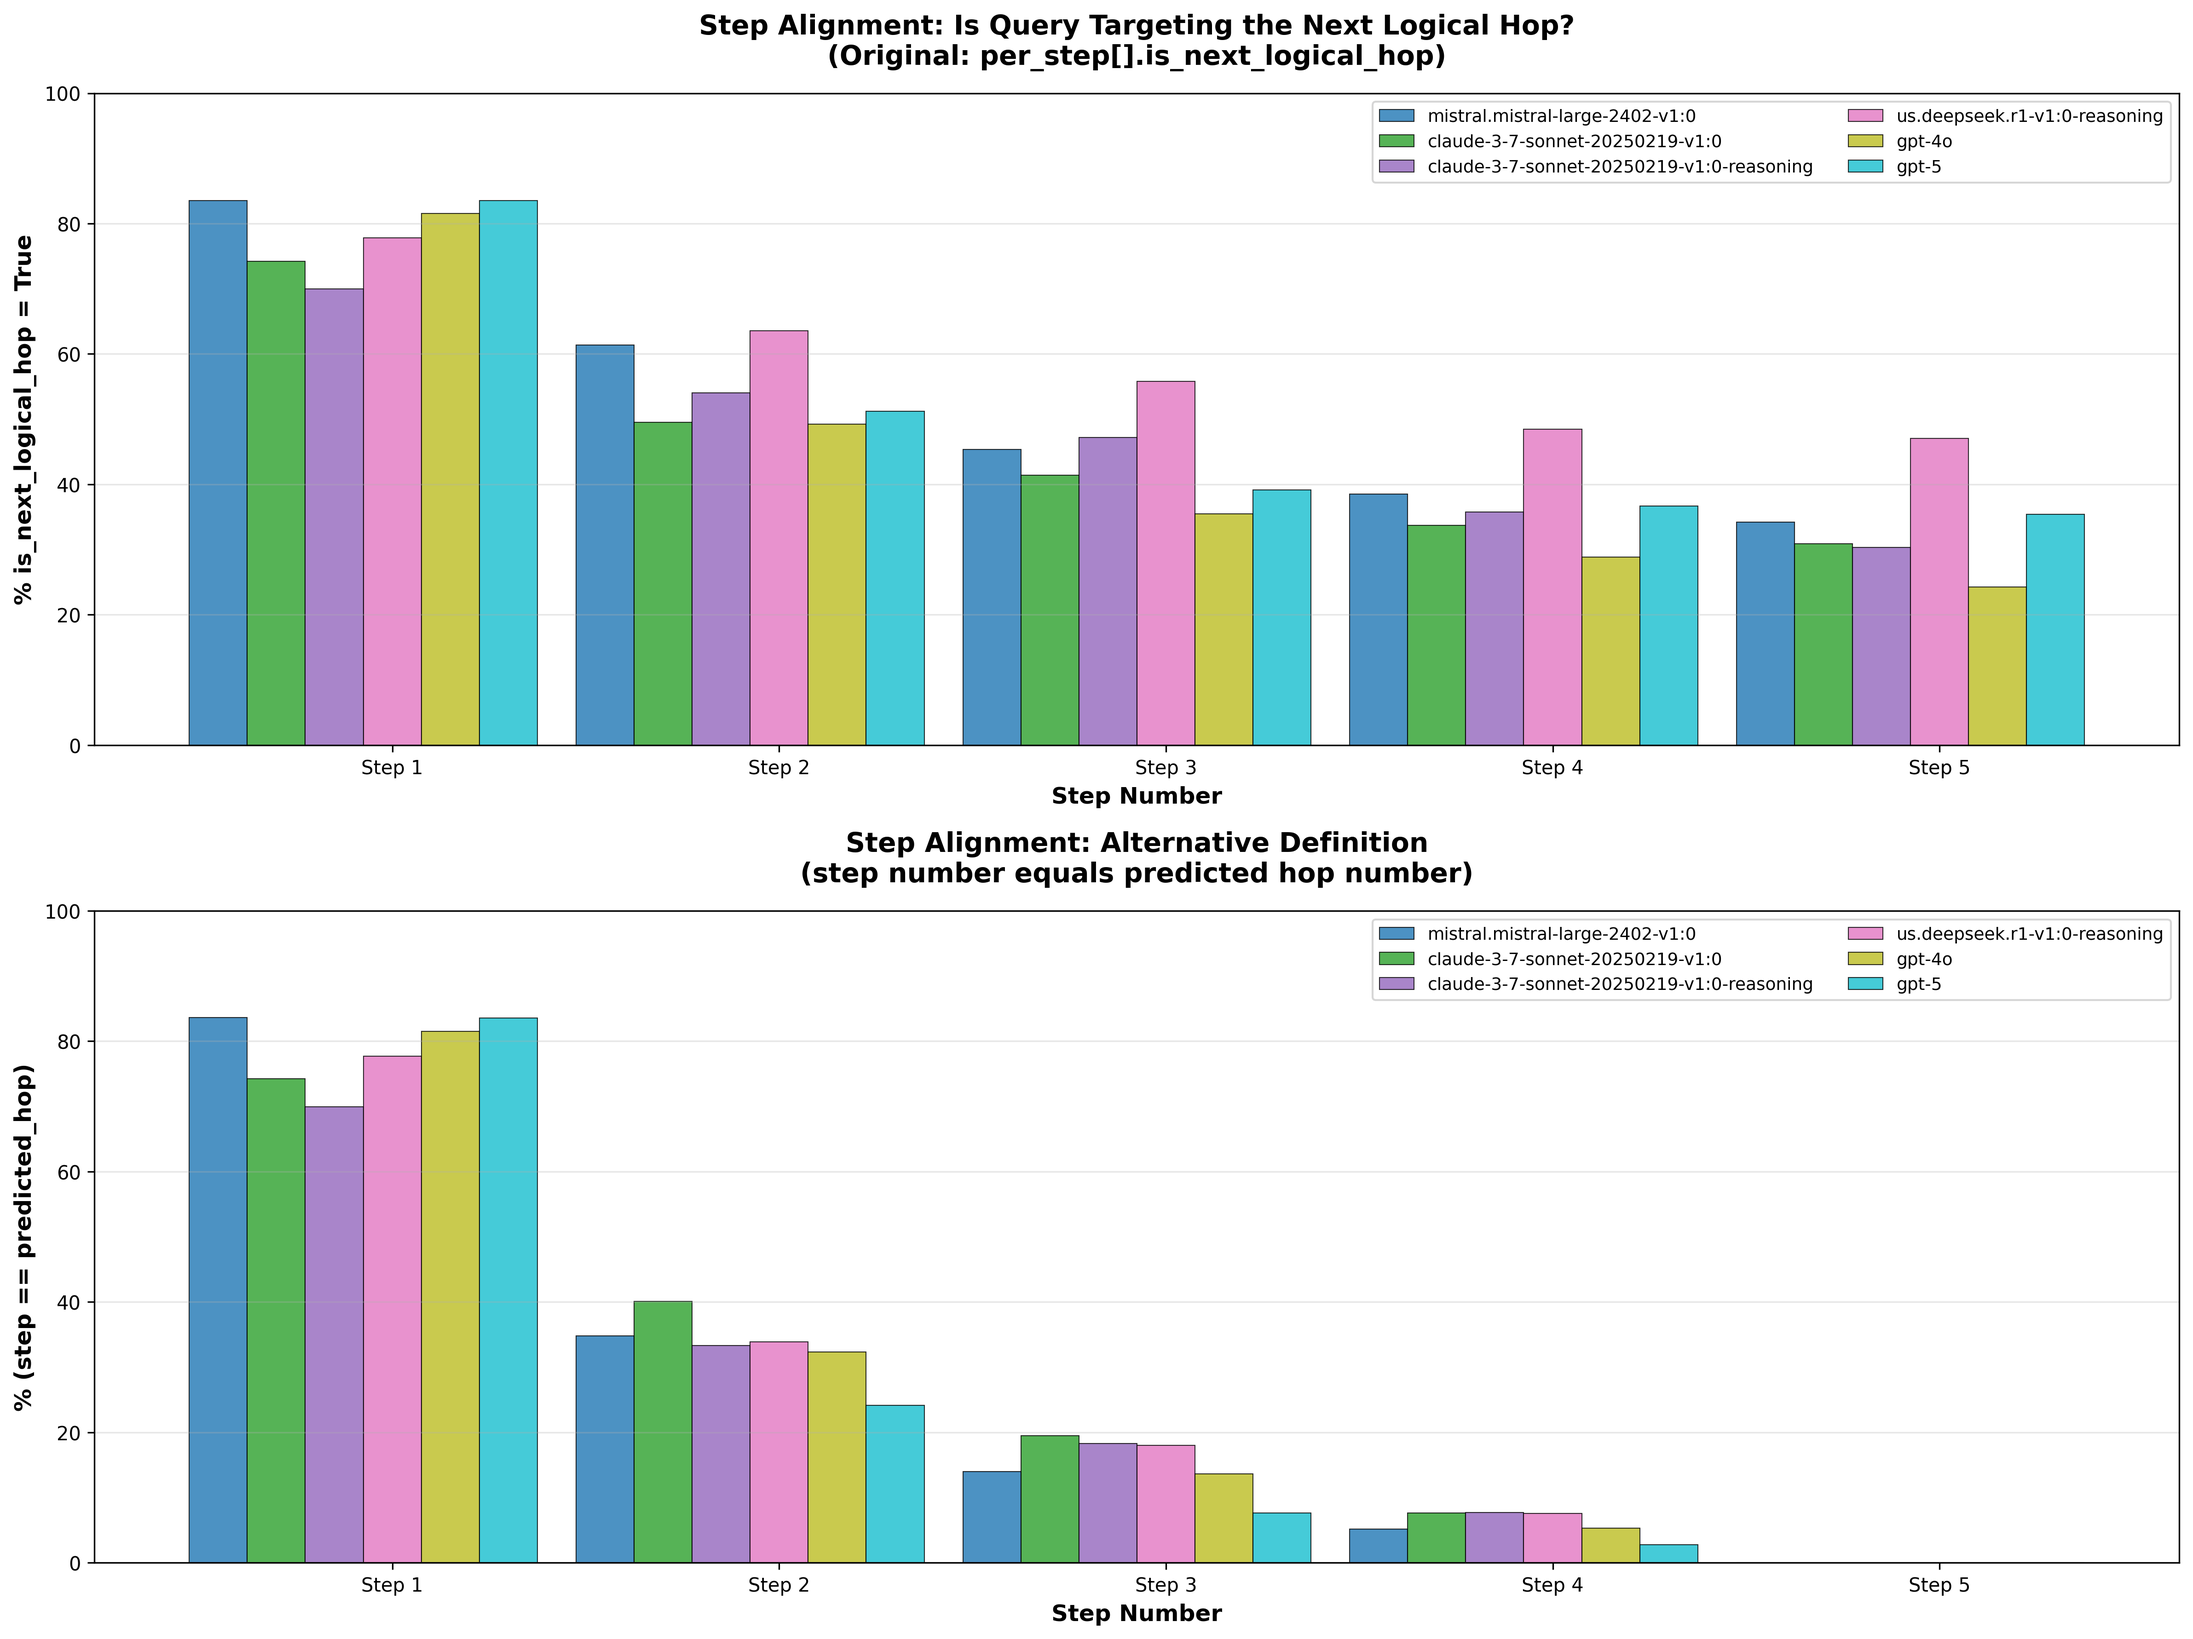
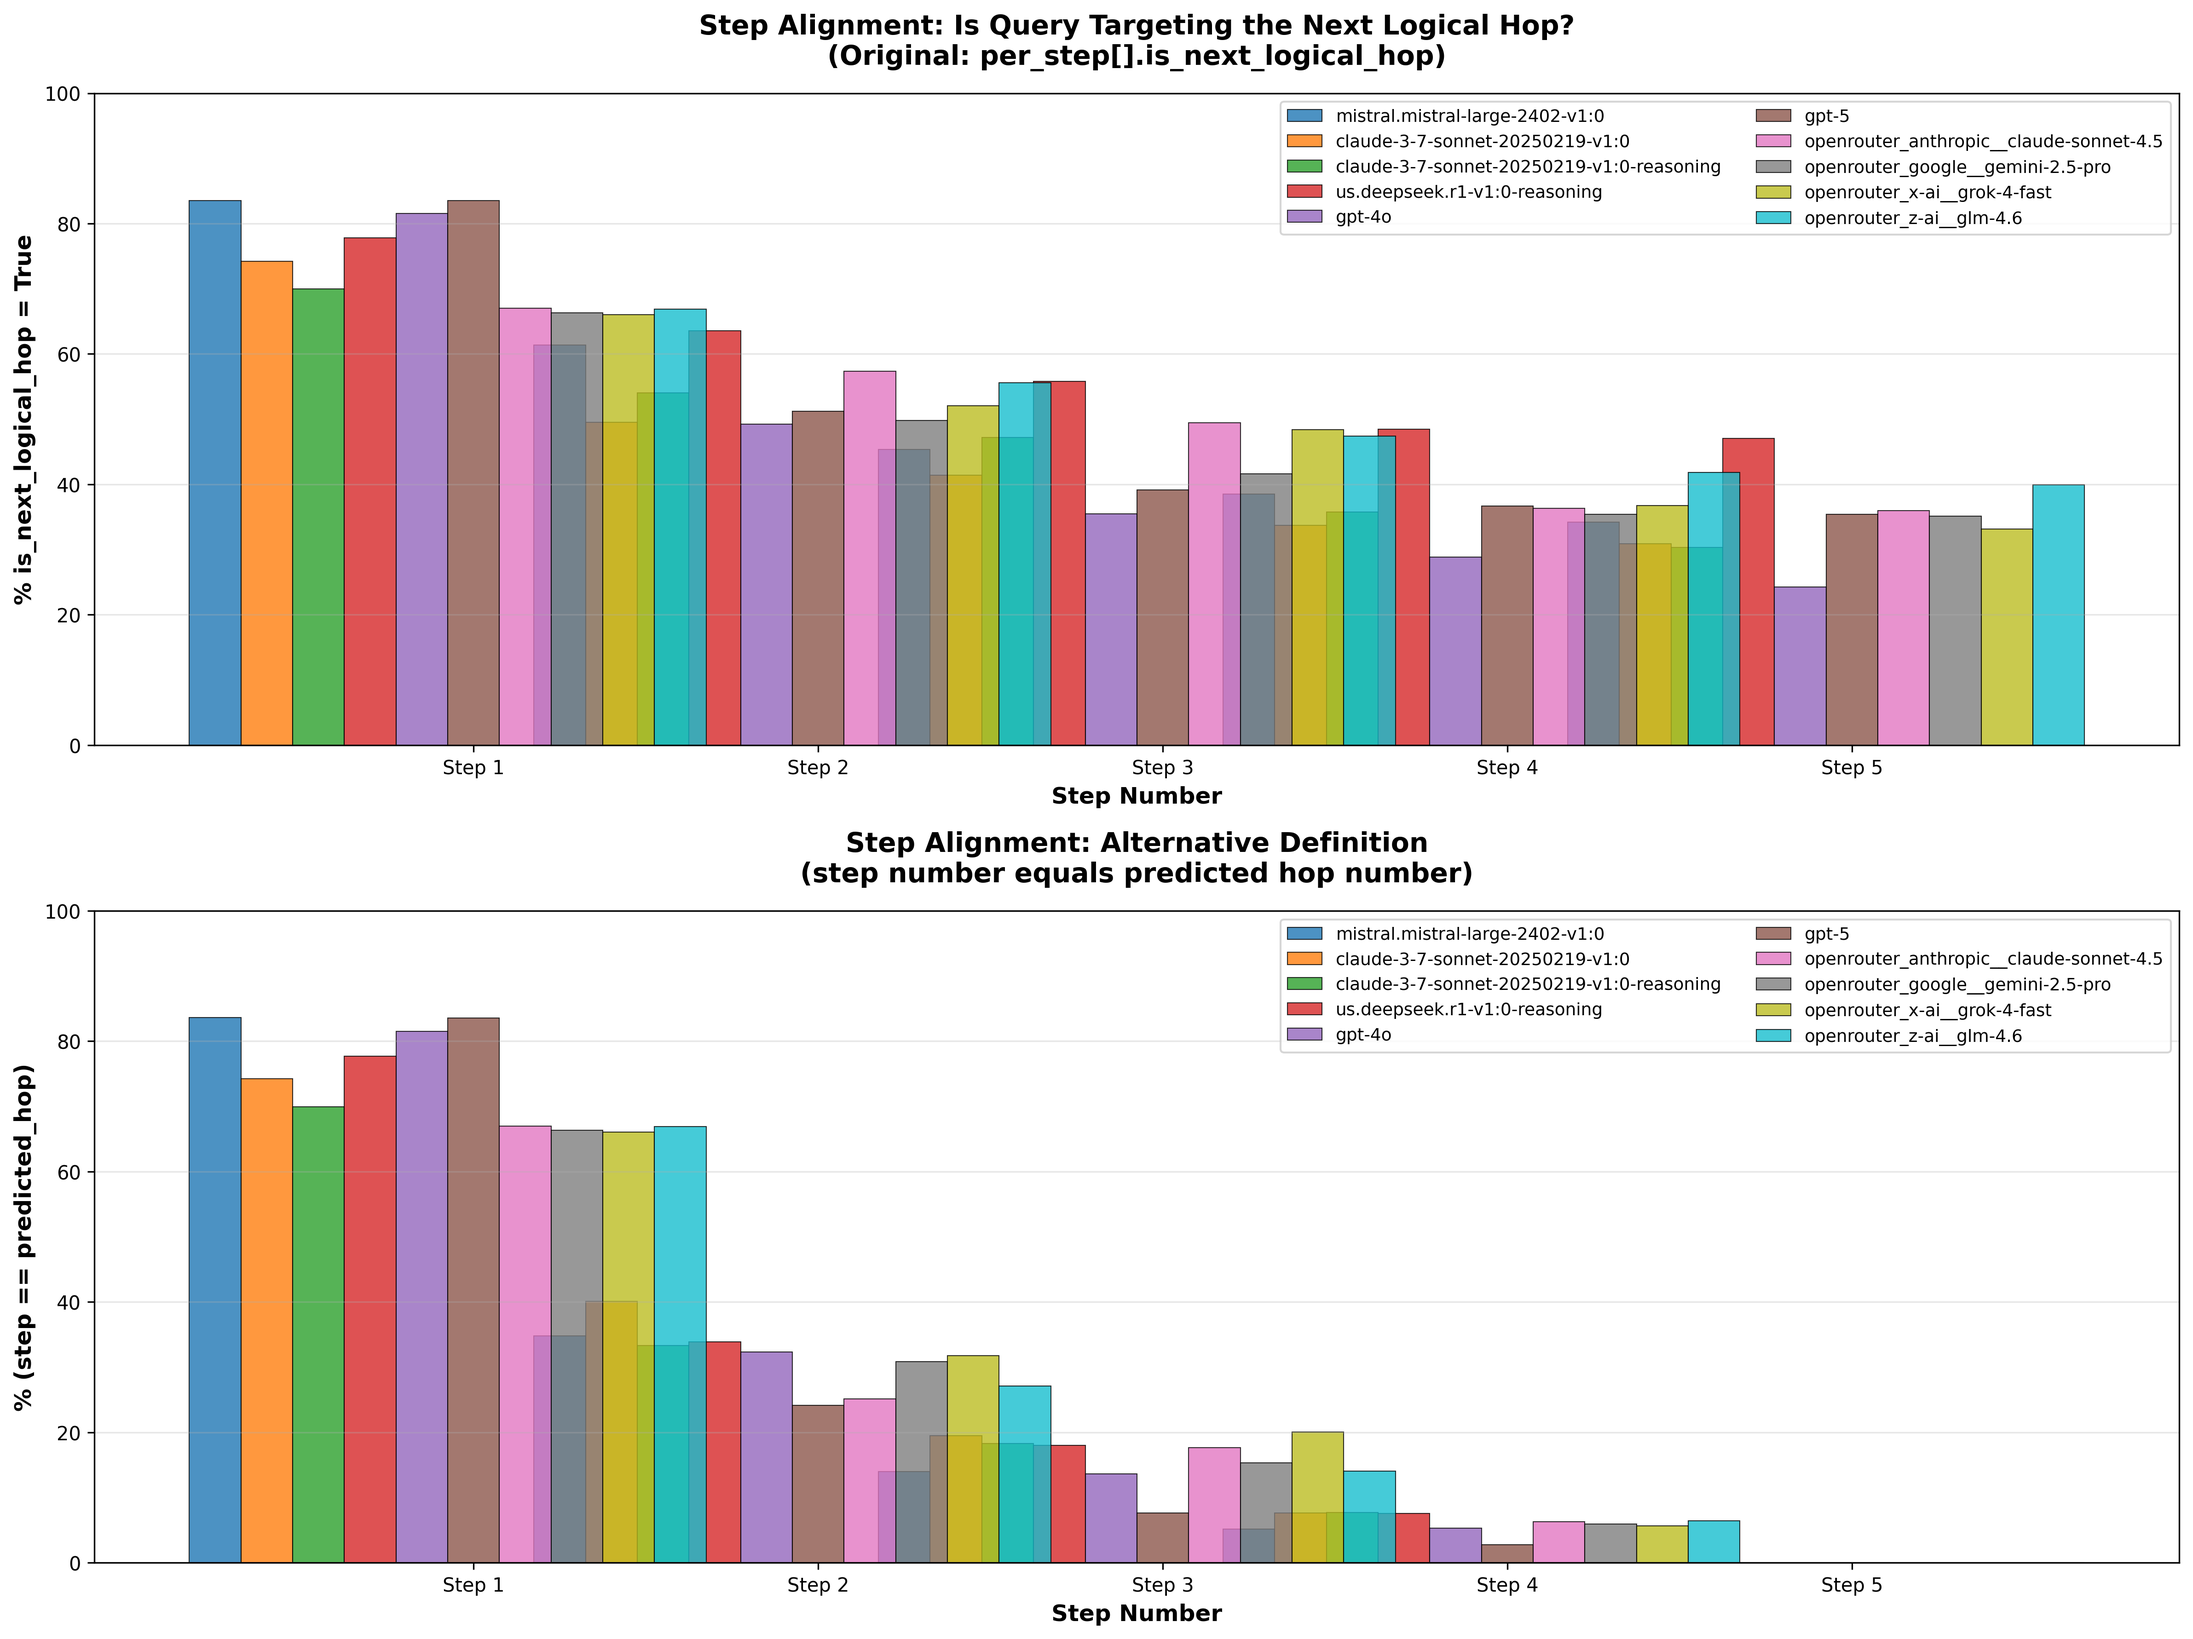
quality updated

diff --git a/src/rag_analysis/quality_rag_plots/2_fusion_skip_effectiveness.py b/src/rag_analysis/quality_rag_plots/2_fusion_skip_effectiveness.py
@@ -25,6 +25,12 @@ def normalize_model_name(model: str) -> str:
         return 'Claude 3.7 Sonnet + Reasoning'
     elif 'claude-3-7' in model.lower():
         return 'Claude 3.7 Sonnet'
+    elif 'claude-sonnet-4.5' in model.lower() or 'claude_sonnet_4_5' in model.lower():
+        return 'Claude Sonnet 4.5'
+    elif 'gemini-2.5-pro' in model.lower():
+        return 'Gemini 2.5 Pro'
+    elif 'grok-4' in model.lower():
+        return 'Grok 4 Fast'
     elif 'mistral' in model.lower():
         return 'Mistral Large'
     return model
@@ -131,14 +137,18 @@ def create_box_plot(model_fusion_data, output_path):
         print("No model data found!")
         return
     
-    # Create figure with 2x3 subplots
-    fig, axes = plt.subplots(2, 3, figsize=(18, 12))
+    # Create figure with dynamic subplots (3 columns)
+    n_models = len(models)
+    n_cols = 3
+    n_rows = (n_models + n_cols - 1) // n_cols
+    
+    fig, axes = plt.subplots(n_rows, n_cols, figsize=(18, 6 * n_rows))
+    if n_rows == 1:
+        axes = axes.reshape(1, -1)
     axes = axes.flatten()
     
     # Plot each model
     for idx, model in enumerate(models):
-        if idx >= 6:  # Only show first 6 models
-            break
         
         ax = axes[idx]
         fusion_data = model_fusion_data[model]
@@ -214,7 +224,7 @@ def create_box_plot(model_fusion_data, output_path):
         ax.axhline(y=0.5, color='gray', linestyle=':', linewidth=1, alpha=0.4)
     
     # Hide unused subplots
-    for idx in range(len(models), 6):
+    for idx in range(len(models), len(axes)):
         axes[idx].axis('off')
     
     # Add legend

diff --git a/src/rag_analysis/quality_rag_plots/3_query_flag_cooccurrence.py b/src/rag_analysis/quality_rag_plots/3_query_flag_cooccurrence.py
@@ -22,6 +22,12 @@ def normalize_model_name(model: str) -> str:
         return 'Claude 3.7 Sonnet + Reasoning'
     elif 'claude-3-7' in model.lower():
         return 'Claude 3.7 Sonnet'
+    elif 'claude-sonnet-4.5' in model.lower() or 'claude_sonnet_4_5' in model.lower():
+        return 'Claude Sonnet 4.5'
+    elif 'gemini-2.5-pro' in model.lower():
+        return 'Gemini 2.5 Pro'
+    elif 'grok-4' in model.lower():
+        return 'Grok 4 Fast'
     elif 'mistral' in model.lower():
         return 'Mistral Large'
     return model
@@ -72,14 +78,18 @@ def create_heatmap(model_flag_combinations, output_path):
         print("No model data found!")
         return
     
-    # Create figure with 2x3 subplots
-    fig, axes = plt.subplots(2, 3, figsize=(18, 12))
+    # Create figure with dynamic subplots (3 columns)
+    n_models = len(models)
+    n_cols = 3
+    n_rows = (n_models + n_cols - 1) // n_cols
+    
+    fig, axes = plt.subplots(n_rows, n_cols, figsize=(18, 6 * n_rows))
+    if n_rows == 1:
+        axes = axes.reshape(1, -1)
     axes = axes.flatten()
     
     # Plot each model
     for idx, model in enumerate(models):
-        if idx >= 6:  # Only show first 6 models
-            break
         
         ax = axes[idx]
         flag_combinations = model_flag_combinations[model]
@@ -137,7 +147,7 @@ def create_heatmap(model_flag_combinations, output_path):
         ax.tick_params(which="minor", size=0)
     
     # Hide unused subplots
-    for idx in range(len(models), 6):
+    for idx in range(len(models), len(axes)):
         axes[idx].axis('off')
     
     # Overall title

diff --git a/src/rag_analysis/quality_rag_plots/8_fusion_skip_by_step.py b/src/rag_analysis/quality_rag_plots/8_fusion_skip_by_step.py
@@ -19,7 +19,10 @@ def normalize_model_name(model_str):
         'bedrock_us.anthropic.claude-3-7-sonnet-20250219-v1:0': 'Claude 3.7 Sonnet',
         'bedrock_us.anthropic.claude-3-7-sonnet-reasoning': 'Claude 3.7 Sonnet + Reasoning',
         'bedrock_us.anthropic.claude-3-7-sonnet': 'Claude 3.7 Sonnet',
-        'bedrock_mistral.mistral-large': 'Mistral Large'
+        'bedrock_mistral.mistral-large': 'Mistral Large',
+        'openrouter_anthropic__claude-sonnet-4.5': 'Claude Sonnet 4.5',
+        'openrouter_google__gemini-2.5-pro': 'Gemini 2.5 Pro',
+        'openrouter_x-ai__grok-4-fast': 'Grok 4 Fast',
     }
     
     # Try exact match first, then partial match
